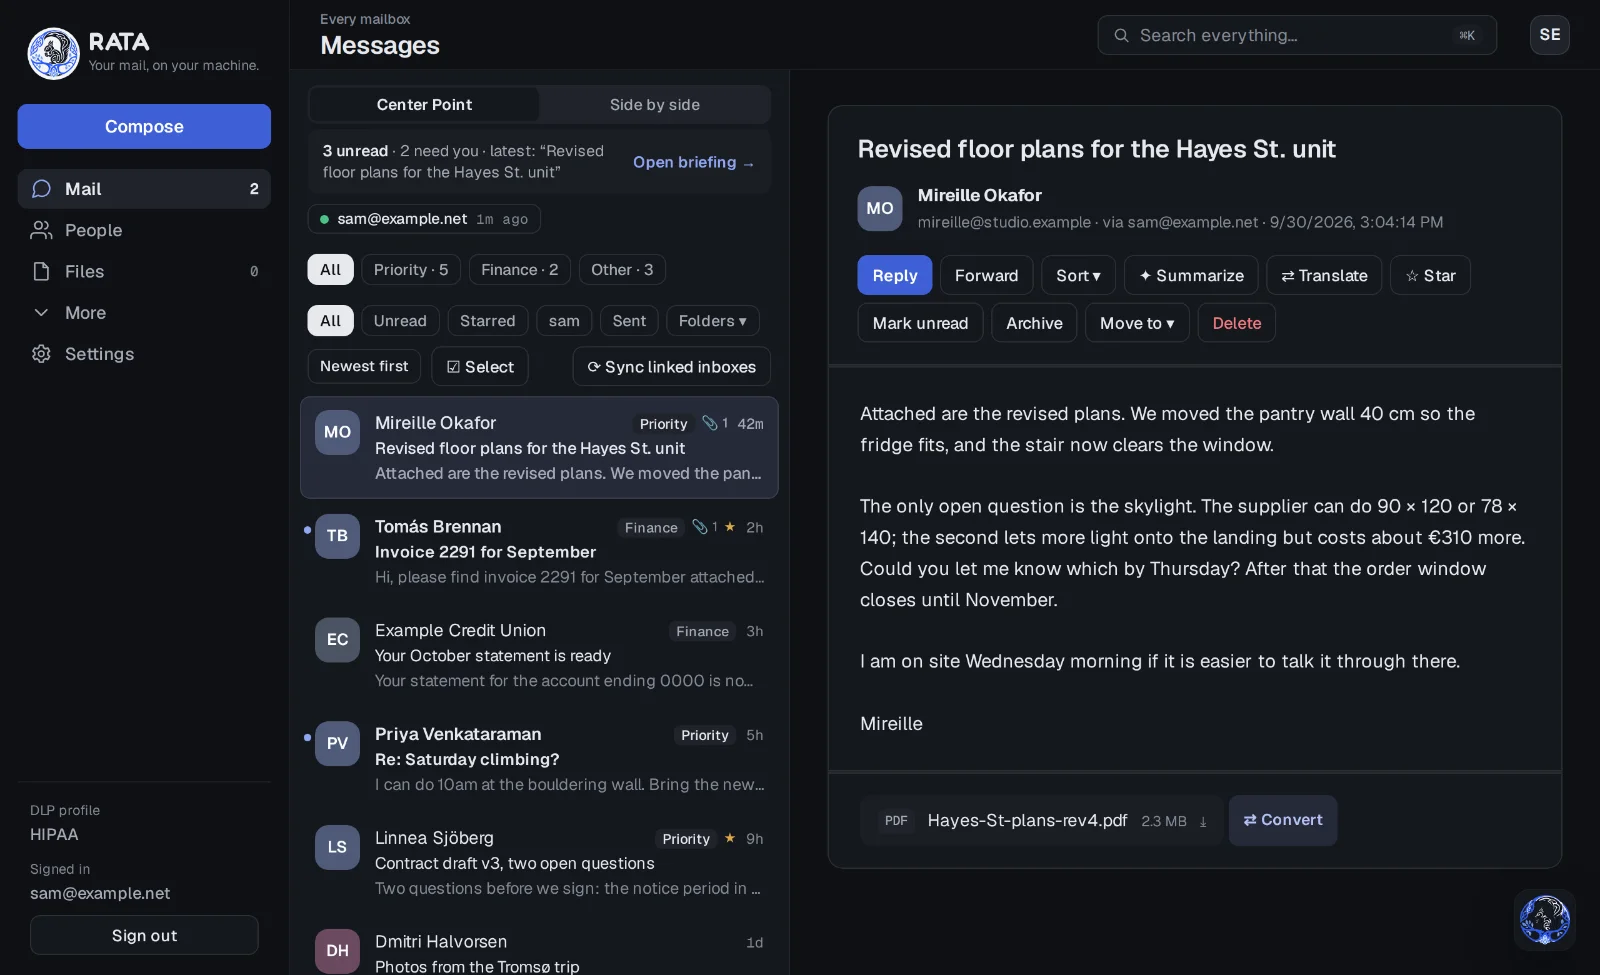
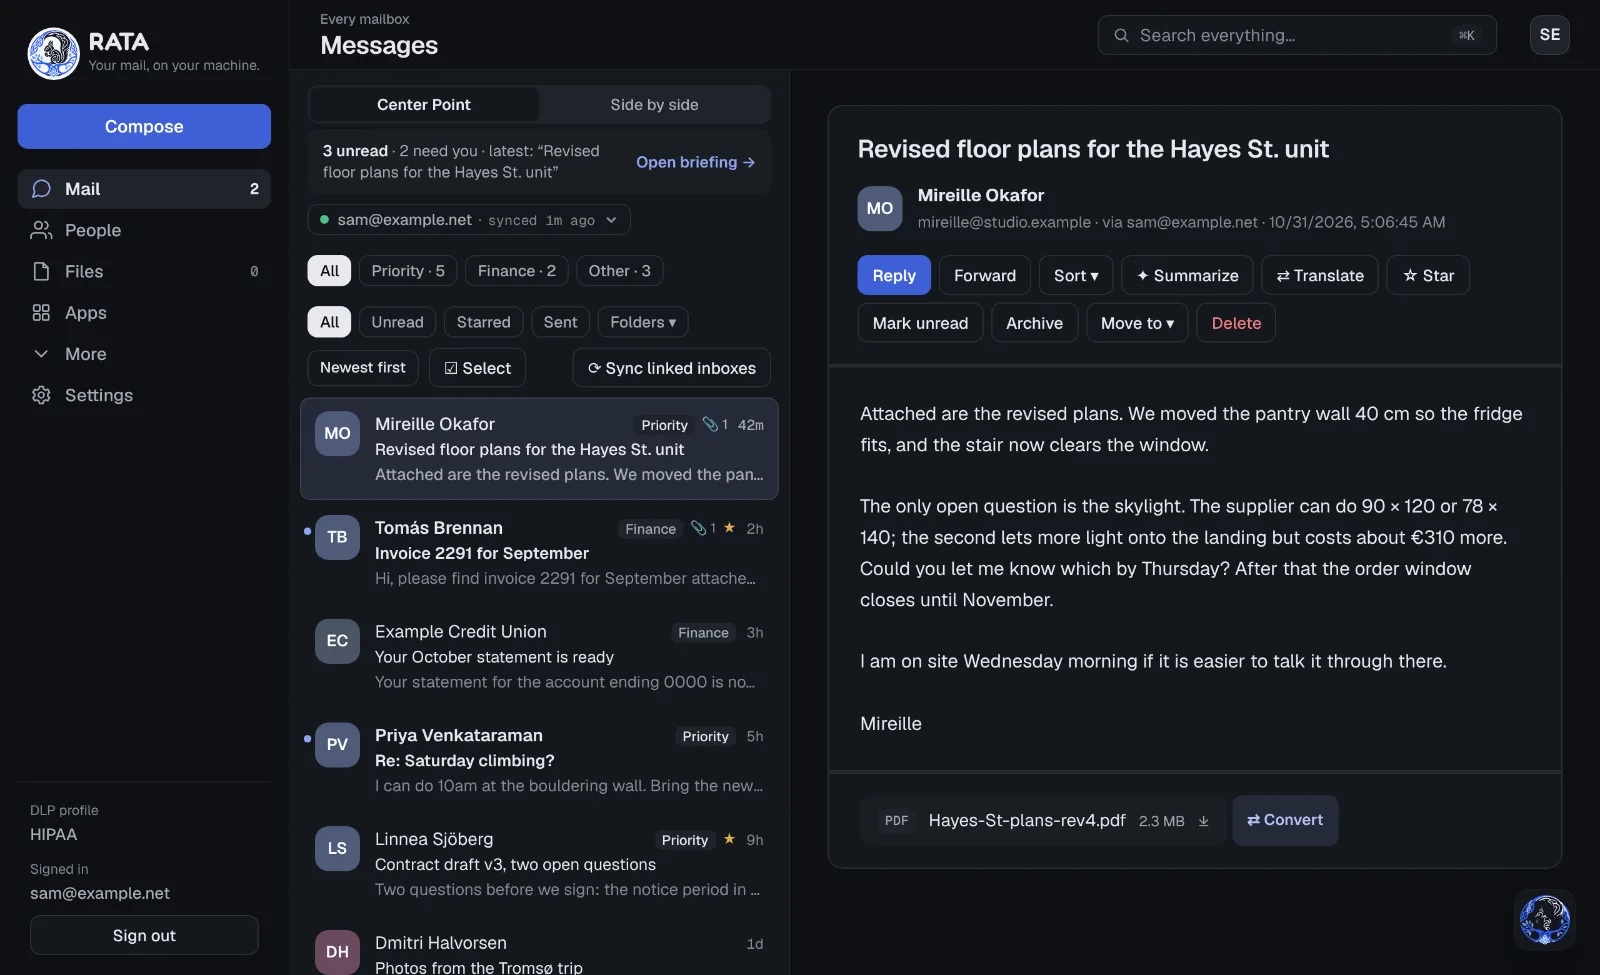
Inbox: Folders asks a mailbox it comes to list; the card may outgrow the list
The second review of #174.

Folders, open while another mailbox was chosen, listed mailboxes it had
never asked and said each had "No folders of your own yet". Since
e4a39d9 opening it asks only the mailboxes it shows (boxShown), and
choosing All mailboxes, another mailbox, or removing the chosen one
changed what it shows without asking. Now drawing the panel asks every
mailbox it lists that it has not asked since it opened (BOX_ASKED,
cleared by toggleBoxPanel), so one rule covers all three; a mailbox
already asked is not asked again while it stays open.

openBox no longer has a branch that could never run (a folder of a
mailbox other than the one chosen cannot be listed), and CLAUDE.md no
longer says opening a folder chooses its mailbox.

Beside the rail's icons (901 to 1200 px) the list is 340 px wide and the
card could be no wider than 311 px, so three of the demo's five
addresses broke after the @. It lies over the list, so it may now be up
to 440 px wide (max(100% - 28px, 440px)); it stays inside the window at
every width over 600 px, and the phone rule is unchanged.

Seven harness checks, each shown to fail without what it covers: the
two Folders cases (a choice made while it is open, and the chosen
mailbox removed while it is open), the choice dropped when the chosen
mailbox is the only one left, mail filed under its mailbox's address
(ofMailbox through linkedOf), the "Nothing here" state and Show all
[…]

diff --git a/rata-next/public/app.html b/rata-next/public/app.html
@@ -600,7 +600,9 @@ button.att-card:disabled{opacity:.6;cursor:progress}
 .src-dot{flex-shrink:0;width:7px;height:7px;border-radius:50%;background:var(--faint)}
 .src-dot.on{background:var(--green)}
 .src-meta{font-weight:400;color:var(--faint);font-size:11px;font-family:var(--mono)}
-.src-panel{position:absolute;z-index:40;top:calc(100% - 4px);left:14px;width:max-content;min-width:min(280px,calc(100% - 28px));max-width:calc(100% - 28px);max-height:min(420px,60vh);overflow-y:auto;background:var(--card);border-radius:var(--r);box-shadow:var(--shadow-lg);padding:6px;animation:pop .16s ease-out}
+/* It lies over the list and may reach past it: the list is 340 px wide
+   beside the rail's icons, too narrow for an address to keep to one line. */
+.src-panel{position:absolute;z-index:40;top:calc(100% - 4px);left:14px;width:max-content;min-width:min(280px,calc(100% - 28px));max-width:max(calc(100% - 28px),440px);max-height:min(420px,60vh);overflow-y:auto;background:var(--card);border-radius:var(--r);box-shadow:var(--shadow-lg);padding:6px;animation:pop .16s ease-out}
 .src-panel[hidden]{display:none}
 .src-list{list-style:none}
 .src-item{display:flex;align-items:center;gap:9px;width:100%;text-align:left;padding:7px 10px;border-radius:var(--r-sm);font-size:13px;font-weight:500;color:var(--slate);transition:var(--lift)}
@@ -2867,12 +2869,18 @@ async function fetchBoxes(l){
 /* The mailboxes Folders lists: the one chosen, else every one. Only those
    are asked for their folders, a sign-in each. */
 function boxShown(){const scope=shownScope();return boxAccts().filter(l=>!scope||l.id===scope)}
-async function toggleBoxPanel(open){
+/* The mailboxes asked since Folders last opened. Drawing the panel asks
+   any it lists that has not been (all of them when it opens; then another
+   mailbox chosen while it is open, or every one when the chosen one is
+   removed), so none is said to have no folders for never being asked. */
+const BOX_ASKED=new Set();
+function toggleBoxPanel(open){
   boxPanel=open===undefined?!boxPanel:open;
+  BOX_ASKED.clear();
   renderMailFilters();
-  if(!boxPanel)return;
-  await Promise.all(boxShown().map(async l=>{
-    BOX_LOADING.add(l.id);renderBoxPanel();
+}
+async function askBoxes(list){
+  await Promise.all(list.map(async l=>{
     const e=await fetchBoxes(l);
     BOX_LOADING.delete(l.id);
     if(e)BOX_ERR[l.id]=e;else delete BOX_ERR[l.id];
@@ -2891,18 +2899,16 @@ function renderBoxPanel(){
   const el=$('#box-panel');if(!el)return;
   el.hidden=!boxPanel;if(!boxPanel)return;
   /* With a mailbox chosen, its folders only. */
-  const accts=boxShown();
+  const accts=boxShown(),ask=accts.filter(l=>!BOX_ASKED.has(l.id));
+  for(const l of ask){BOX_ASKED.add(l.id);BOX_LOADING.add(l.id)}
   el.innerHTML=accts.map(l=>(accts.length>1?`<div class="box-acct">${esc(l.label)}</div>`:'')+`<div class="box-list">${boxButtons(l,null,'data-box')}</div>`).join('')
     ||'<span class="box-note">Link a mailbox to see its folders.</span>';
   el.querySelectorAll('[data-box]').forEach(b=>b.onclick=()=>openBox(b.dataset.email,b.dataset.box));
+  if(ask.length)askBoxes(ask);
 }
 async function openBox(email,name){
-  /* A folder of a mailbox other than the one chosen makes that one chosen,
-     so the line names whose folder this is. */
-  const l=boxMailbox(email);
-  if(shownScope()&&l&&l.id!==SCOPE)SCOPE=l.id;
   BOX={email,name};mailFilter='box';boxPanel=false;
-  renderSources();renderMailFilters();renderMail();
+  renderMailFilters();renderMail();
   await loadBox(email,name,false);
 }
 /* The oldest message RATA holds from one folder, to page back from. */

diff --git a/CLAUDE.md b/CLAUDE.md
@@ -29,7 +29,7 @@ convenient.
 | `desktop/rata-app/` | Tauri shell: keychain, store, licence verification, the bridge to the interface, saving attachments and marking them as downloads (`mark.rs`), updating itself, new-mail notifications, watching inboxes for new mail, Sign in with Microsoft (`oauth.rs`), Copy diagnostics (`diagnostics.rs`), telling a picture attachment by its bytes (`core::sniff_image`), connected iCloud Drive and Creative Cloud Files folders (`cloud.rs`, K5), files made by Create file (`created.rs`, K6), Share to Slack (`slack.rs`, K3), OneDrive (`onedrive.rs`, K2), Google Drive (`google.rs`, K4), one RATA at a time and the start-up pass over the list and keychain (`main.rs` `open_store`, `store::hold`, `vault::forget_unlinked`, `vault::settle_windows`; SEC-11). 326 tests on Linux. On Windows CI runs only the keychain, list and start tests (`cargo test --bin rata-app -- vault:: store:: tests::at_start`, job *Desktop shell on Windows*), two of them Windows-only and run against the real Credential Manager. |
 | `rata-next/` | The website: marketing, Stripe, licence issue and renewal, the AI relay (`/api/ai`), account deletion and `/api/health`, the help page (`public/help.html`, served at `/help` through `proxy.js`), and the privacy policy and terms (`public/privacy.html`, `public/terms.html`). Next.js on Hostinger. 841 checks (`npm test`, after `npm run build`); `scripts/live-check.sh` checks a deploy from outside, with no credentials, and fails while a live privacy or terms page still shows an `[OWNER: …]` placeholder (`LAUNCH.md`, the step before §6). |
 | `rata-next/public/app.html` | The interface. **One copy.** The desktop app builds its own from this at build time. |
-| `desktop/rata-app/harness/` | `ui-harness.mjs` drives the real interface against a fake backend under the app's own CSP (579 checks, among them axe-core scans that fail on any serious or critical accessibility rule; CI job *Desktop interface, driven*); `feed.cjs` writes the update feed's files (its rules tested by `feed.test.cjs`, in Desktop CI and the release gate); `shots.mjs` takes the website's screenshots; `verify-release.sh` checks a published release (`--title <v>` prints the title it expects); `smoke-installed.sh`/`.ps1` install and launch an installer on its release runner. |
+| `desktop/rata-app/harness/` | `ui-harness.mjs` drives the real interface against a fake backend under the app's own CSP (630 checks, among them axe-core scans that fail on any serious or critical accessibility rule; CI job *Desktop interface, driven*); `feed.cjs` writes the update feed's files (its rules tested by `feed.test.cjs`, in Desktop CI and the release gate); `shots.mjs` takes the website's screenshots; `verify-release.sh` checks a published release (`--title <v>` prints the title it expects); `smoke-installed.sh`/`.ps1` install and launch an installer on its release runner. |
 | `desktop/rata-app/demo/` | A clickable demo: the real interface and `bridge.js` over a fake Rust side with invented sample mail (`demo-backend.js`: a doctor at two invented hospital networks, a personal mailbox and two side businesses, nine saved people, real PDF, Word and Excel attachments made by the Format Bridge's own writers, a Base/Pro switch). `build.sh [out]` assembles it from `sync-ui.sh`'s output and writes the vendored libraries' control characters and U+FFFD as escapes, which some hosts require. It sends nothing and opens no mailbox (the AI relay and renewal are answered in the page), clears only its own `centra_`/`rata_` storage, and uses only RFC 2606 addresses; no patient information. `build.sh` empties only an empty folder (a lone `.DS_Store` counts), the demo's own `out/` holding only build names, or an earlier demo build: a folder holding `demo-backend.js` and nothing at its top but what a build writes (whatever is inside its `fonts`, `icons` and `vendor` goes with it), and swaps app.html's Sign out and Delete account redirects to `auth.html` by exact text, failing when they change. `check.mjs` builds both forms and drives them in Chromium (CI step *The demo's rules*, job *Desktop interface, driven*), so an `app.html` change can fail there. `README.md` there is the guide for classmates and other contributors (running it, where the sample data lives, `DEMO_VERSION`, the rules). |
 | `infrastructure/backup/` | Nightly encrypted Postgres backup for the VPS, the restore drill, and `selftest.sh`. |
 | `infrastructure/licence/` | `mint.sh`: mints a licence on the VPS with OpenSSL alone, in exactly the format `lib/licence.js` issues; `mint.sh check` says whether the signing key is the one the released installers trust, and `new` never overwrites a key. |
@@ -1370,22 +1370,27 @@ place on every sync so an open card and a focused row stay. Its rows are
 dot, whole address and sync; a row chooses (`chooseScope`), is marked
 (`aria-current`, `--tint-soft`, a tick; with one mailbox nothing is), and
 closes the card with the focus on the button. **Sync now** at its foot
-refreshes every mailbox. It replaced a wrapping chip per mailbox
-(`.src-chip`, a press synced) and the filters' `acct:<id>` chip per
-mailbox; neither is left. The choice (`SCOPE`) lasts the session and is
-never stored; `mailScope()` drops it when that mailbox is no longer linked
-or fewer than two are (no All row could undo it, and it would hide what
-Remove keeps, I6), and `shownScope()` is empty Side by side, whose columns
+refreshes every mailbox. The card lies over the list and may be wider than
+it, up to 440 px, since beside the rail's icons (901 to 1200 px) the list
+is 340 px and an address would break in two. It replaced a wrapping chip
+per mailbox (`.src-chip`, a press synced) and the filters' `acct:<id>`
+chip per mailbox; neither is left. The choice (`SCOPE`) lasts the session
+and is never stored; `mailScope()` drops it when that mailbox is no longer
+linked or fewer than two are (no All row could undo it, and it would hide
+what Remove keeps, I6), and `shownScope()` is empty Side by side, whose columns
 are a mailbox each and where the line is hidden. Inside it: the list
 (`mailPool`, which matches a mailbox by `ofMailbox`, its id or its address
 through `linkedOf`, Side by side columns too), Unread, Starred, Sent, the
 categories and their counts, the Drafts, Archive and Spam chips (offered
 only when that mailbox has some), the digest strip, the top bar's eyebrow
 (its address), Folders (`boxShown`: only its folders are asked for, a
-sign-in each; a folder of another mailbox gives way to the chosen one's
-inbox, and opening one chooses its mailbox), and Load older mail
-(`olderCandidates(only)`, `gapsOf(only)`, `loadOlder(only)`,
-`fillGaps(only)`: offered, paged and gap-filled for that mailbox alone).
+sign-in each; drawing the panel asks any mailbox it lists and has not
+asked since it opened, `BOX_ASKED`, such as another one chosen while it is
+open or the rest when the chosen one is removed; a folder of another
+mailbox gives way to the chosen one's inbox; opening a folder chooses
+nothing), and Load older mail (`olderCandidates(only)`, `gapsOf(only)`,
+`loadOlder(only)`, `fillGaps(only)`: offered, paged and gap-filled for
+that mailbox alone).
 The resting pane's mailbox boxes choose too, keep the focus through the
 redraw, and mark the chosen one. The nav's unread count, the briefing and
 the resting pane's overview stay every mailbox's. A choice with nothing in

diff --git a/README.md b/README.md
@@ -187,7 +187,7 @@ before packaging anything.
 
 `desktop/rata-app/harness/ui-harness.mjs` drives the real interface in
 Chromium against a fake backend, under the app's own content security
-policy (579 checks, among them axe-core accessibility scans of the inbox, an
+policy (630 checks, among them axe-core accessibility scans of the inbox, an
 open message, the composer, Settings and the dialogs, in light and dark,
 failing on any serious or critical rule). CI runs it as *Desktop interface,
 driven*, together with the update feed's rules (`node --test desktop/rata-app/harness/feed.test.cjs`). From the
